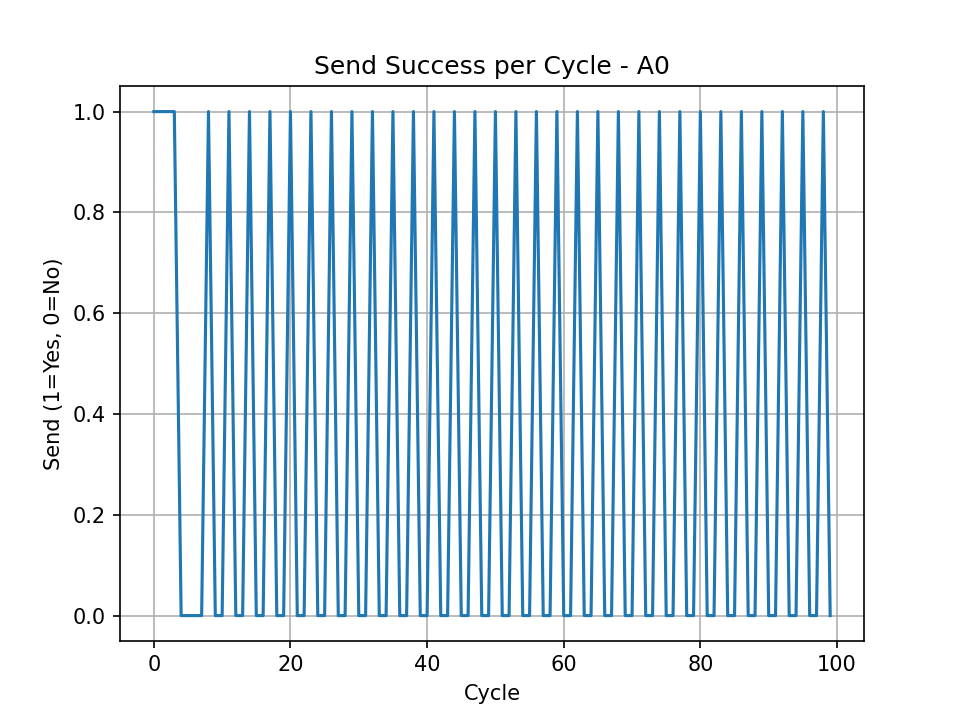
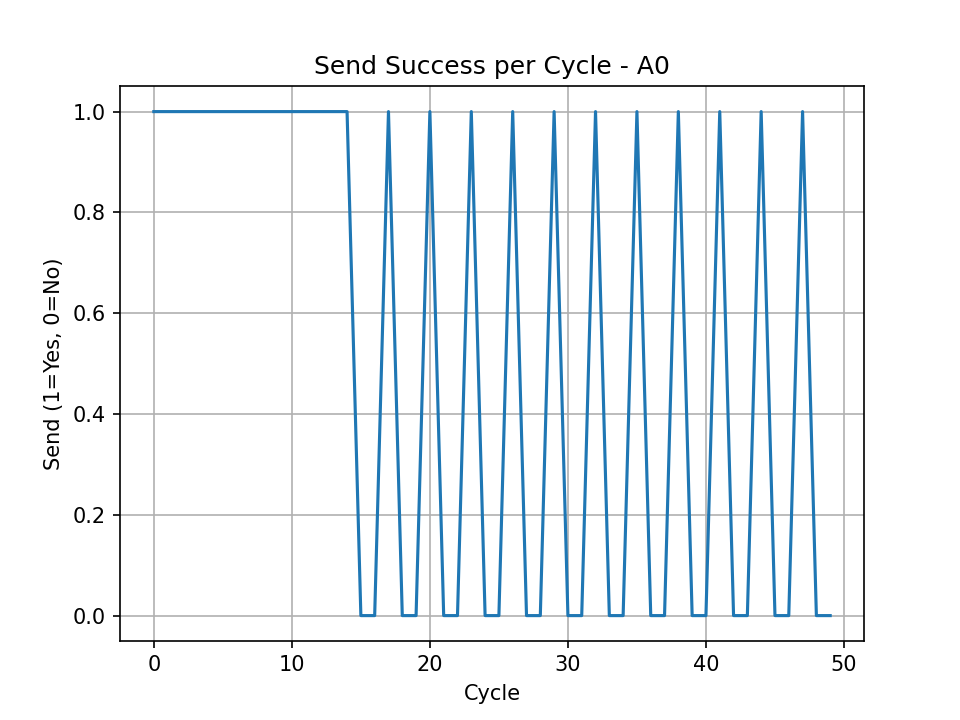
added pipelining in switch

Changed region(s): [[0.1562, 0.1222, 0.9062, 0.9472]]

diff --git a/inputs/switch.py b/inputs/switch.py
@@ -3,6 +3,8 @@
 @brief      A simple switch node with 3 input ports and 1 output port that performs round-robin arbitration.
 """
 
+from collections import deque
+
 from node import Node
 from packet import Packet
 from port import InputPort, OutputPort
@@ -20,11 +22,13 @@ class Switch(Node):
         self.rr_index = 0
         self.pkts_forwarded = 0
         self.log = {}
+        self.processing_latency = 2
+        self.pipeline = deque()
 
     def advance(self, cycle):
         """
         @brief      This method performs a round-robin scheduling scheme to determine which
-                    input port must be selected to forward the packet from.
+                    input port to select the packet to be forwarded.
         @param      cycle - an integer representing current simulation time
         """
         input_ports = list(self.get_input_ports().values())
@@ -40,17 +44,28 @@ class Switch(Node):
         if num_inputs == 0:
             return
 
+        # Check if packets in the pipeline is ready to be forwarded
+        if self.pipeline:
+            ready_cycle, pkt, input_port_id = self.pipeline[0]
+            if ready_cycle == cycle:
+                self.pipeline.popleft()
+                if output_port.send_pkt(pkt, cycle) == 0:
+                    print(f"[>] Switch forwarded packet {pkt.get_pkt_id()} from {input_port_id} to {output_port.get_port_id()}")
+                    self.pkts_forwarded += 1
+                    self.log[cycle] = True
+                else:
+                    print(f"[#] Error: Switch unable to send packet {pkt.get_pkt_id()}")                   
+
         # Round-robin over input ports
         for i in range(num_inputs):
             port_idx = (self.rr_index + i) % num_inputs
             input_port = input_ports[port_idx]
             pkt = input_port.recv_pkt(cycle)
             if pkt:
-                output_port.send_pkt(pkt, cycle)
-                print(f"Switch forwarded packet {pkt.get_pkt_id()} from {input_port.get_port_id()} to {output_port.get_port_id()}")
+                print(f"[+] Switch received packet {pkt.get_pkt_id()} from {input_port.get_port_id()}")
+                ready_cycle = cycle + self.processing_latency
+                self.pipeline.append((ready_cycle, pkt, input_port.get_port_id()))
                 self.rr_index = (port_idx + 1) % num_inputs
-                self.pkts_forwarded += 1
-                self.log[cycle] = True
                 break
 
     def get_stats(self):

diff --git a/inputs/producer.py b/inputs/producer.py
@@ -24,22 +24,39 @@ class Producer(Node):
         @brief      Generates packets every cycle and attempts to send it.
         @param      cycle - an integer representing current simulation time.
         """
+
+        # if self.get_node_id() == "A1" or self.get_node_id() == "A2":
+        #     return
+
+        # if self.get_node_id() == "A0":
+        #     stream_rate = 1
+        # elif self.get_node_id() == "A1":
+        #     stream_rate = 2
+        # elif self.get_node_id() == "A2":
+        #     stream_rate = 4
+        # else:
+        #     return
+
+        stream_rate = 1
+
+        if cycle % stream_rate != 0:
+            return
+
         output_ports = self.get_output_ports()
         if not output_ports:
             self.log[cycle] = False
             return
 
-        pkt_id = self.get_node_id() + "_" + str(cycle)
+        pkt_id = self.get_node_id() + "_" + str(self.pkts_sent)
         data = "__" + self.get_node_id() + "___" + str(cycle)
         packet = Packet(pkt_id, data)
         
         output_port = next(iter(output_ports.values()))
-        # output_port = list(output_ports.values())[0]
         if output_port.send_pkt(packet, cycle) < 0:
-            print(f"{self.get_node_id()} unable to send packet {pkt_id}")
+            print(f"[#] Error: {self.get_node_id()} unable to send packet {pkt_id}")
             self.log[cycle] = False
         else:
-            print(f"{self.get_node_id()} sent packet {pkt_id}")
+            print(f"[-] {self.get_node_id()} sent packet {pkt_id} => curr_credit = {output_port.get_credit()}")
             self.pkts_sent += 1
             self.log[cycle] = True
 

diff --git a/src/plotter.py b/src/plotter.py
@@ -31,8 +31,21 @@ class Plotter:
         plt.xlabel("Cycle")
         plt.ylabel(f"{event} (1=Yes, 0=No)")
         plt.grid(True)
-        # plt.show()
 
         filename = f"../outputs/{self.__node_id}_{event}_log.png"
         plt.savefig(filename, dpi=150)
         plt.close()
+
+        # plt.figure(figsize = (10, 4))
+        # plt.bar(cycles, successes, color = 'skyblue', edgecolor = 'black', width = 0.8)
+        # plt.title(f"{event} Success per Cycle - {self.__node_id}")
+        # plt.xlabel("Cycle")
+        # plt.ylabel(f"{event} (1=Yes, 0=No)")
+        # plt.ylim(0, 1.2)
+        # plt.xticks(cycles)
+        # plt.grid(axis = 'y', linestyle = '--', alpha = 0.7)
+
+        # filename = f"../outputs/{self.__node_id}_{event}_log.png"
+        # plt.tight_layout()
+        # plt.savefig(filename, dpi=150)
+        # plt.close()

diff --git a/inputs/consumer.py b/inputs/consumer.py
@@ -27,7 +27,7 @@ class Consumer(Node):
         for port in self.get_input_ports().values():
             pkt = port.recv_pkt(cycle)
             if pkt:
-                print(f"{self.get_node_id()} received packet {pkt.get_pkt_id()} on {port.get_port_id()}")
+                print(f"[+] {self.get_node_id()} received packet {pkt.get_pkt_id()} on {port.get_port_id()}")
                 self.pkts_recvd += 1
                 self.log[cycle] = True
 

diff --git a/src/port.py b/src/port.py
@@ -133,6 +133,9 @@ class OutputPort(Port):
         assert credit > 0, "Error: initial credit should be greater than zero"
         self.__credit = credit
 
+    def get_credit(self):
+        return self.__credit
+
     def increment_credit(self):
         """
         @brief      Increments the credit by one.

diff --git a/src/backend.py b/src/backend.py
@@ -25,7 +25,7 @@ if __name__ == "__main__":
     parser = Parser(config_dir)
     parser.parse()
 
-    sim = Simulator(10)
+    sim = Simulator(50)
     sim.build_nodes(parser, user_nodes_dir)
     sim.build_connections(parser)
     sim.run()
